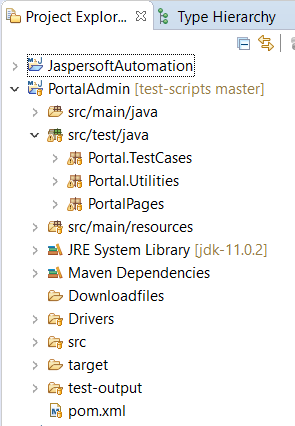
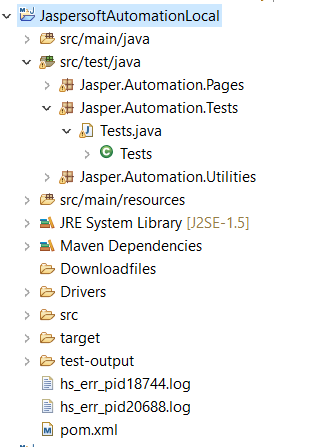
update
update

diff --git a/README.md b/README.md
@@ -1,6 +1,6 @@
-# Finance Admin Portal - Selenium Tests
+# Focus assesment - Selenium Tests
 
-These are the Portal Automated tests, they are built in JAVA and we use Eclipse, Selenium, TestNG to work on them, please find below the
+These are built in JAVA and we use Eclipse, Selenium, TestNG to work on them, please find below the
 instructions about how to install all tools mentioned above to start using the Selenium tests
 
 ## Installation
@@ -15,30 +15,14 @@ instructions about how to install all tools mentioned above to start using the S
    7. Eclipse will find TestNG click on check box and click next until installation complete
    ![Testing](images/testng.PNG)
    8. Click on File menu, then click on Open Project from File System
-   9. Navigate to the Portal test project: \test-scripts\selenium\PortalAdmin
+   9. Navigate to the test project: \focus-test\JaspersoftAutomationLocal
    10. The project file will show up in the menu, select the file and open
    11. Project should be loaded in Eclipse
-   ![Project Explorer](images/projexplorer.PNG)
-   12. Depending on you setup you need to config the tests to run on your local, to do that follow next step
-   13. In the project explorer go to test-scripts\selenium\PortalAdmin\src\test\java\Portal\Utilities\PropertiesFile.java
-   ![Set env](images/setenvandcomputer.PNG)
-   14. The "env" and the "os", need to be change depending on the OS you have installed and the environment where you need
-       to run the tests: env (dev,uat,stg) os (windows,mac,linux)
-   15. Save changes made in file: test-scripts\selenium\PortalAdmin\src\test\java\Portal\Utilities\PropertiesFile.java
-   16. Connect to the proper VPN depending on your choice on step 14 (dev,uat,stg)
+  ![Project Explorer](images/projexplorer.PNG)
 
 ## Usage
 
-  1. Go to the Portal.TestCases package: test-scripts\selenium\PortalAdmin\src\test\java\Portal\TestCases
+  1. Go to the Jasper.Automation.Tests package: \focus-test\JaspersoftAutomationLocal\src\test\java\Jasper\Automation\Tests
   ![Test cases](images/testcases.PNG)
-  2. Test Cases types available are: LoginTests, FinancialMonitoringTests, AdministrationTests, SettlementWindowsTests, TransfersValidationTests
-  3. Each one of them can be executed by doing right click on the class name and then Run as: TestNG
+  2. Test can be executed by doing right click on the class name and then Run as: TestNG
   ![Run as TestNG](images/runastestng.PNG)
-  4. If a Test Report is needed then you can look for this file in the project: test-scripts\selenium\PortalAdmin\src\main\resources\testng.xml
-  ![TestNG XML](images/testngxml.PNG)
-  5. Do right click on this file and Run as: TestNG , this will execute all the tests in the Suite
-  6. Once the execution is Done do right click on the Project name and click on "Refresh"
-  7. Look for this file: test-scripts\selenium\PortalAdmin\test-output\Extent.html
-  ![Report](images/report.PNG)
-  8. This "Extent.html" file can be open in a Web browser such as Chrome (open in file system first, then in Chrome) and all the informaiton regarding the test Execution will be listed: Passed tests, Failed tests, Test execution duration etc
-  ![HTML Report](images/htmlreport.PNG)
